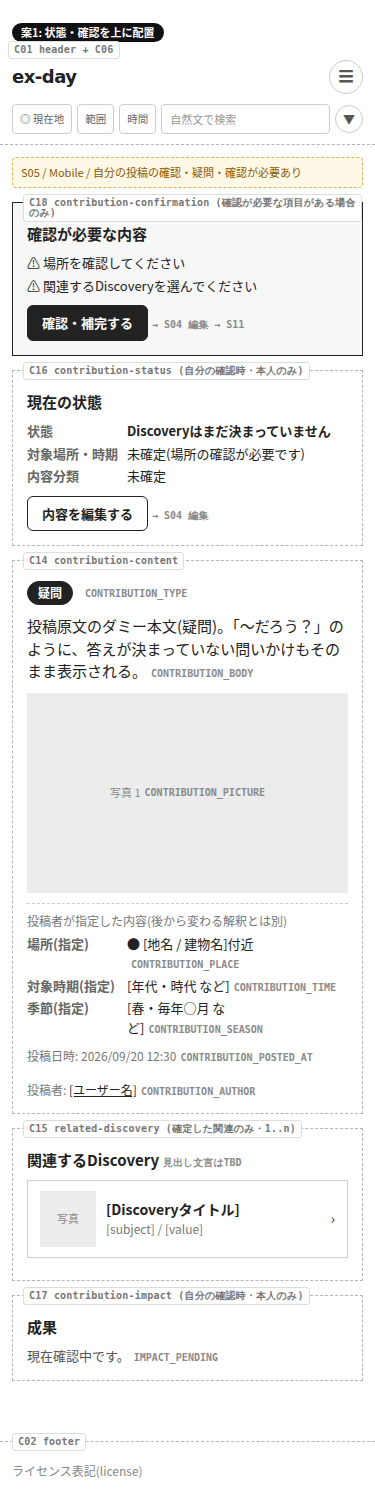
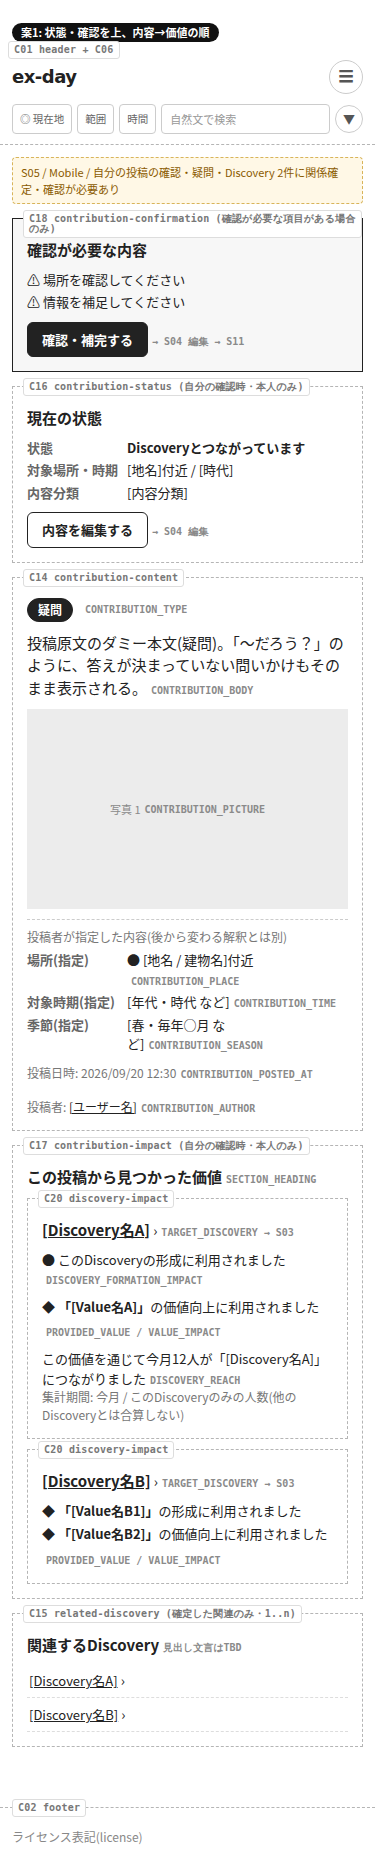
S05の各定義見直しの結果を受け再作成

diff --git a/docs/ai/claude/wireframe/s05-contribution-detail-notes.md b/docs/ai/claude/wireframe/s05-contribution-detail-notes.md
@@ -1,44 +1,54 @@
-# S05 知識・疑問詳細 Wireframe 作成メモ (Issue #17 用)
+# S05 知識・疑問詳細 Wireframe 作成メモ (Issue #17 用) v2
 
 担当: Claude (Maker) / Reviewer: 未実施(別AIレビュー待ち) / 人間レビュー: 未実施
 
-## 成果物
+v2は、PR #19(ドメイン論理設計書・論理エンティティ設計書)とPR #20(C17改訂・C20新設・S05/S09)の反映後に再作成した。初版(v1)は設計検討材料として保持する。
 
-正式成果物(`docs/ui/wireframe/`配下)
+## 今回の変更点(v1からの差分)
 
-- `screens/S05/PC-Main.png` 通常閲覧(知識)。C14 + C10 + C15
-- `screens/S05/PC-OwnCheck.png` 自分の確認(疑問, C18あり)。C14 + C15 + C16 + C17 + C18
-- `screens/S05/Mobile-Main.png` / `Mobile-OwnCheck.png` 上記のMobile版
-- `screens/S05/PC-StateVariants.png` / `Mobile-StateVariants.png` 状態差・配置の比較案
-- `components/C10-reaction-button-s05-variants.png` (既存の`C10-reaction-button-variants.png`とは別ファイル)
-- `components/C14-contribution-content-variants.png`
-- `components/C15-related-discovery-variants.png`
-- `components/C16-contribution-status-states.png`
-- `components/C17-contribution-impact-states.png`
-- `components/C18-contribution-confirmation-states.png`
+- C17: 見出しを「この投稿から見つかった価値」に変更。Discoveryごとに確定した関係のみC20を0..n件並べる。0件は「現在確認中です」。
+- C20 (discovery-impact) を新規に作成。1つのContributionと1つのDiscoveryの組み合わせを1単位とする。固定見出し(「Impact」等)は置かず、対象Discoveryを先頭に識別情報として表示する。
+- 自分の確認の配置: 主カラムに C14 → C17 → C15、右カラムに C18 → C16 とした。
+- v1にあった矛盾を解消した。「Discoveryが未決定」のC16とC15(関連Discovery)を同時に表示していた。関係が未確定の状態ではC15を非表示にした。
 
-Main採用案は「案1」表記。他案の採否は人間レビューで決定する。
+## 成果物(`docs/ui/wireframe/`配下)
 
-## 設計書確認結果
+更新: `screens/S05/PC-OwnCheck.png`, `Mobile-OwnCheck.png`, `PC-StateVariants.png`, `Mobile-StateVariants.png`, `components/C17-contribution-impact-states.png`
+新規: `components/C20-discovery-impact-variants.png`, `screens/S05/PC-OwnCheck-C15-C20-Variants.png`
+変更なし: PC-Main, Mobile-Main(通常閲覧はC14/C10/C15のみで、今回の設計変更の影響なし)、C10/C14/C15/C16/C18の比較図
 
-**Blocking事項: なし。** 以下はすべてNon-blocking。
+## 設計書が「Wireframeで検証する」としていた事項への結果
 
-1. 「自分の確認」経路で、投稿者以外が開いた場合のC10表示が未定義。Wireframeでは通常閲覧のみC10を配置し、C16/C17/C18は投稿者のみ表示とした。
-2. 未ログイン投稿(未公開)のS05表示が未定義。S11保存後にS05へ戻る際、通常閲覧か自分の確認かも未定義。
-3. 疑問への回答・議論のUI/仕様が設計書にない(C10のみ)。知識/疑問の差は種別ラベルとC16のステータス文言以外に記載がなく、Wireframeも同程度の差にとどめた。
-4. C15〜C18のセクション見出し文言が未定義(プレースホルダー使用)。
-5. C14の場所表示(テキストか地図か)が未確定。テキスト+ピンで表現。
-6. 自分の確認のレイアウト(1カラム/2カラム、Mobile: C18上部固定/下部固定)は比較案として提示。人間選択待ち。
-7. 繰り越し: S02概要の「mobile = TOP」の不整合(S01/C11と食い違い)。
+1. 対象Discoveryの表示形式(C20): 案1 テキストリンクのみ / 案2 リンク+簡易サマリー([場所]/[Subject])。Discovery Cardへの変更はしていない。採否は人間判断。
+2. 複数Valueの見せ方(C20): 案A 行で表示 / 案B 小カードで表示。
+3. C20が複数ある場合(C17): 縦に並べる(順位・大小を示さない)/ 要約+先頭のみ展開(要約文言はTBD)。
+4. C15とC20の重複: C15(閲覧者向け)とC20(投稿者向け)は目的が違うため、C15の統合・削除は行わず、見せ方のみ3案を比較した(C15をC17の前/後、C15を名称リンク/Discovery Card)。
+
+## Blocking
+
+なし。
+
+## Non-blocking
+
+1. 特定済みValueと、Value未特定(Discovery全体)の寄与が同じDiscoveryに併存する場合のC20の表示が未定義(`value_pending`は0..1)。Wireframeでは「要確認」として両方を並べた。
+2. 人数(`discovery_reach`)はDiscovery単位で1件だが、S09の文言例は「この価値を通じて」とValue単位に読める。複数Valueに使われた場合の人数の単位を要確認。人数には集計期間を併記し、他Discoveryと合算しない形で描いた。
+3. 「自分の確認」経路で、投稿者以外が開いた場合のC10表示が未定義(C16/C17/C18は非表示とした)。
+4. 未ログイン投稿(未公開)のS05表示、S11保存後のS05がどちらの閲覧コンテキストかが未定義。
+5. 疑問への回答・議論のUIが設計書にない(C10のみ)。知識と疑問の差は種別ラベルとC16の文言のみ。
+6. C15/C16/C18の見出し文言、C20の利用結果の文言、C17の要約文言は未定義(プレースホルダー)。C14の場所はテキスト+ピンで表現。
+7. C20の「親」列が表示名(「提供したValue」)になっている(物理名 `provided_value` が他の記載と揃う)。用語「成果」と「Impact」の混在も残る。
+8. 自分の確認のレイアウト(1/2カラム、Mobile: C18上部/下部固定)は比較案として提示。人間選択待ち。
+9. 繰り越し: S02概要の「mobile = TOP」の不整合(S01/C11と食い違い)。
 
 ## S04(登録・編集)への引き継ぎ事項
 
-- C14に表示する項目(種別, 本文, 写真, 添付, 場所, 時期, 季節)はS04の入力項目と対応させる必要がある。「投稿者が指定した内容」と「後から変わる解釈」は分けて表示している。
-- C16 → S04(編集)、C18 → S04 → S11 の導線で、確認対象(場所/関連Discovery/情報補足)をS04側へ渡す仕様が必要。
+- C14の表示項目(種別・本文・写真・添付・場所・時期・季節)とS04の入力項目の対応。「投稿者が指定した内容」と「後から変わる解釈・価値」は分けて表示している。
+- 投稿者が指定する場所・時期・季節・関連Discoveryが、C20のDiscovery・Valueへの関係(ContributionDiscovery+対象Value)にどう影響するかの整理。登録時にValueを指定させる必要はない(登録時点でValue成立は必須ではない)。
+- C16 → S04(編集)、C18 → S04 → S11の導線での確認対象の受け渡し。
 - 未ログイン投稿の紐付け・公開フロー(S11/C08)とS05の表示状態の整合。
-- 疑問投稿の入力項目のうち、知識との差(回答受付など)の有無をS04で決める必要がある。
+- 疑問投稿の入力項目における知識との差の有無。
 
 ## 作成時の仮定
 
-- 設計書にない独自仕様は追加していない。
-- 未採番コンポーネントは作成していない。
+- 設計書にない独自仕様は追加していない。未採番コンポーネントは作成していない。
+- ダミー文言(Discovery名・Value名・利用結果の文言)はプレースホルダー。利用結果の文言は設計書・S09の例に沿った。
